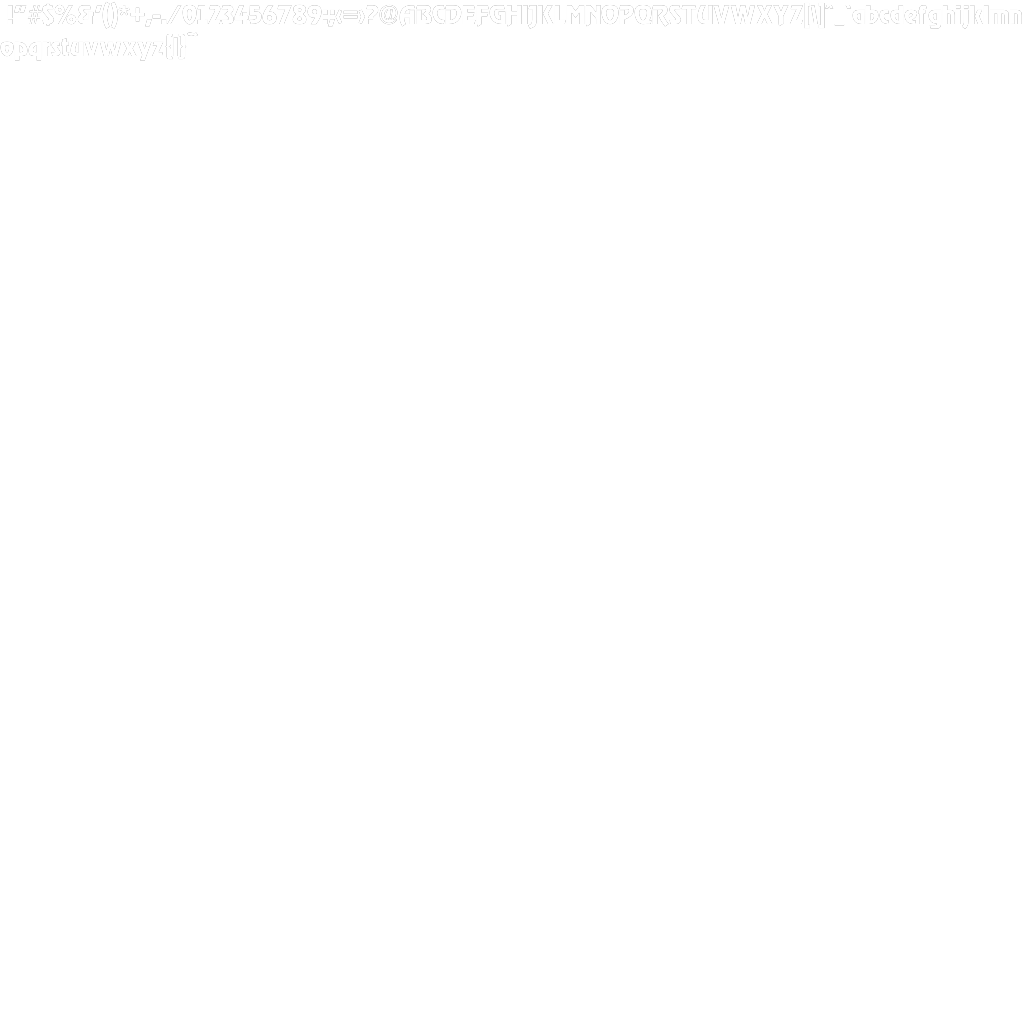
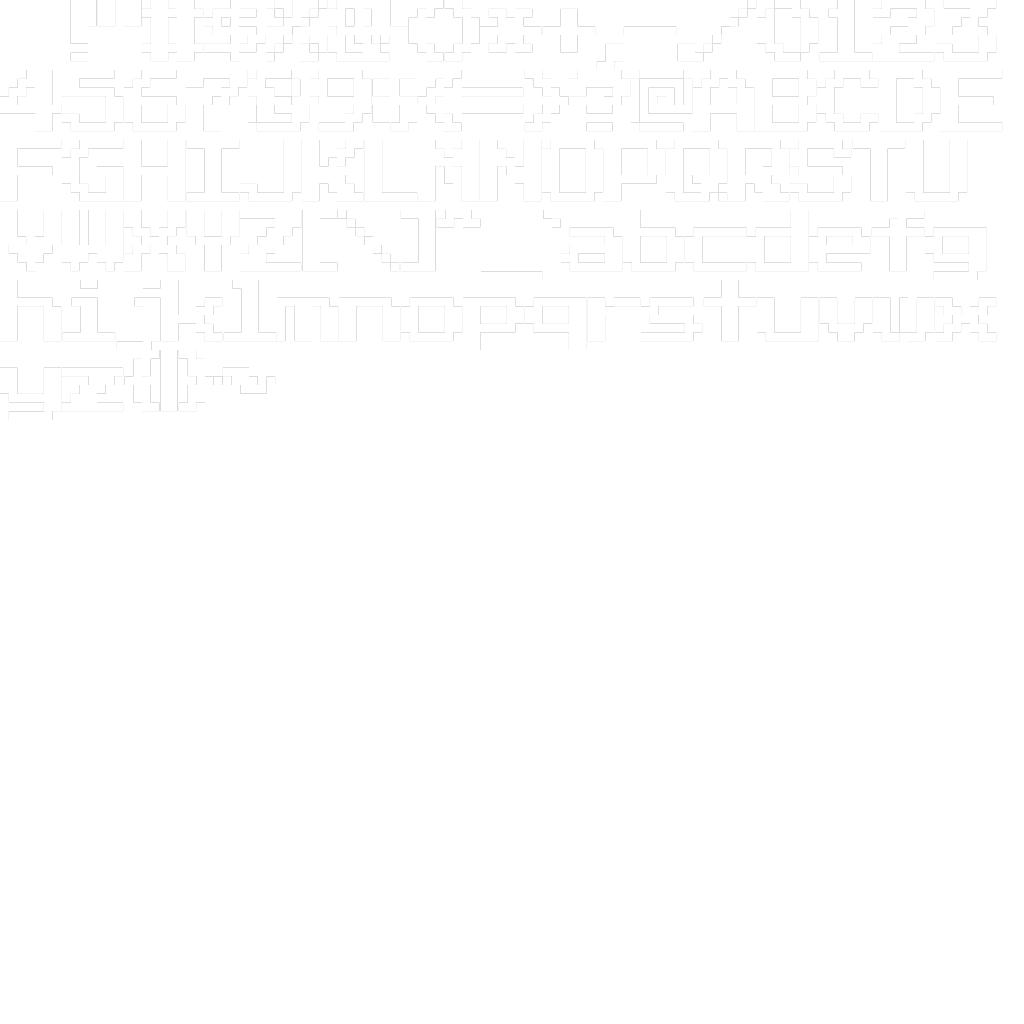
font

diff --git a/Game/Source/Scene.cpp b/Game/Source/Scene.cpp
@@ -18,7 +18,7 @@
 #include "EntityManager.h"
 #include "Pathfinding.h"
 #include "Scene3.h"
-
+#include "Fonts.h"
 #include "Defs.h"
 #include "Log.h"
 
@@ -96,6 +96,9 @@ bool Scene::Start()
 	flag = app->tex->Load("Assets/Screens/Gameplay/flag.png");
 	checked = app->tex->Load("Assets/Screens/Gameplay/checked.png");
 
+	char lookupTable[] = { "! @,_./0123456789$:< ?abcdefghijklmnopqrstuvwxyzA" };
+	timerFont = app->fonts->Load("Assets/Fonts/font.png", lookupTable, 6);
+
 	app->map->Load("map.tmx");
 	
 	return true;
@@ -121,7 +124,9 @@ bool Scene::Update(float dt)
 	{
 		app->render->DrawTexture(checked, flagRect.x, flagRect.y, NULL);
 	}
-
+	app->fonts->BlitText(3, 100, timerFont, "Time:");
+	//sprintf_s(textFont, 10, "%4d", app->intro->score);
+	//app->fonts->BlitText(300, 100, timerFont, textFont);
 	return true;
 }
 

diff --git a/Game/Source/App.cpp b/Game/Source/App.cpp
@@ -19,6 +19,7 @@
 #include "ConfigScene.h"
 #include "CreditsScene.h"
 #include "ScenePause.h"
+#include "Fonts.h"
 
 #include "Defs.h"
 #include "Log.h"
@@ -56,6 +57,7 @@ App::App(int argc, char* args[]) : argc(argc), args(args)
 	configscene = new ConfigScene();
 	creditsscene = new CreditsScene();
 	scenepause = new ScenePause();
+	fonts = new Fonts();
 
 	
 	// Ordered for awake / Start / Update
@@ -78,6 +80,7 @@ App::App(int argc, char* args[]) : argc(argc), args(args)
 	AddModule(configscene);
 	AddModule(creditsscene);
 	AddModule(scenepause);
+	AddModule(fonts);
 	//AddModule(enemies);
 
 

diff --git a/Game/Source/App.h b/Game/Source/App.h
@@ -32,6 +32,7 @@ class PathFinding;
 class ConfigScene;
 class CreditsScene;
 class ScenePause;
+class Fonts;
 
 class App
 {
@@ -115,6 +116,7 @@ public:
 	ConfigScene* configscene;
 	CreditsScene* creditsscene;
 	ScenePause* scenepause;
+	Fonts* fonts;
 
 	bool escaped;
 	bool cappedFrameRate = false;

diff --git a/Game/Source/Scene.h b/Game/Source/Scene.h
@@ -47,6 +47,9 @@ public:
 	//array of colliders, first coll[0] is ground
 	//[0]=y, [1]=x1, [2]=x2
 
+	int timerFont = -1;
+	char textFont[10] = { "\0" };
+
 private:
 	SDL_Texture* img;
 	SDL_Texture* backg;
